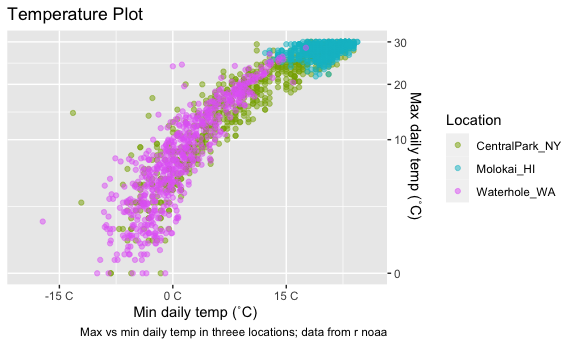
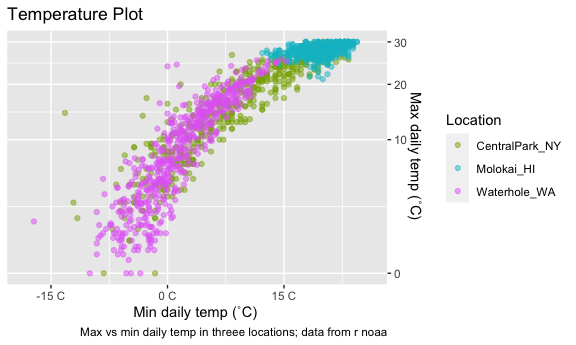
end of class

diff --git a/viz_part2.md b/viz_part2.md
@@ -18,6 +18,7 @@ library(tidyverse)
 
 ``` r
 library(ggridges)
+library(patchwork)
 ```
 
 ``` r
@@ -35,8 +36,8 @@ weather_df =
   rnoaa::meteo_pull_monitors( # pulling 3 monitors
     c("USW00094728", "USW00022534", "USS0023B17S"),
     var = c("PRCP", "TMIN", "TMAX"), 
-    date_min = "2021-01-01",
-    date_max = "2022-12-31") |>
+    date_min = "2022-01-01",
+    date_max = "2023-12-31") |>
   mutate(
     name = recode(
       id, 
@@ -65,6 +66,8 @@ weather_df =
     ## date created (size, mb): 2023-10-05 10:33:39.177801 (0.997)
 
     ## file min/max dates: 1999-09-01 / 2023-10-31
+
+This results in a dataframe with 2007 observations on 6 variables.
 
 labs
 
@@ -95,7 +98,7 @@ weather_df |>
 
     ## Warning: Transformation introduced infinite values in continuous y-axis
 
-    ## Warning: Removed 302 rows containing missing values (`geom_point()`).
+    ## Warning: Removed 402 rows containing missing values (`geom_point()`).
 
 <img src="viz_part2_files/figure-gfm/unnamed-chunk-4-1.png" width="90%" />
 
@@ -113,14 +116,196 @@ ggp_temp_plot =
     color = "Location",
     caption = "Data from the rnoaa package"
   ) + 
-  viridis::scale_color_viridis(
-    name = "Location", 
-    discrete = TRUE
-  )
+  viridis::scale_color_viridis(name = "Location", discrete = TRUE)
 
 ggp_temp_plot
 ```
 
-    ## Warning: Removed 17 rows containing missing values (`geom_point()`).
+    ## Warning: Removed 105 rows containing missing values (`geom_point()`).
 
 <img src="viz_part2_files/figure-gfm/unnamed-chunk-5-1.png" width="90%" />
+
+## Themes
+
+``` r
+ggp_temp_plot = 
+  weather_df |> 
+  ggplot(aes(x = tmin, y = tmax)) + 
+  geom_point(aes(color = name), alpha = .5) + 
+  labs(
+    title = "Temperature plot",
+    x = "Minimum daily temperature (C)",
+    y = "Maxiumum daily temperature (C)",
+    color = "Location",
+    caption = "Data from the rnoaa package"
+  ) + 
+  viridis::scale_color_viridis(name = "Location", discrete = TRUE) + 
+  theme(legend.position = "bottom")
+
+
+
+ggp_temp_plot
+```
+
+    ## Warning: Removed 105 rows containing missing values (`geom_point()`).
+
+<img src="viz_part2_files/figure-gfm/unnamed-chunk-6-1.png" width="90%" />
+
+## data argument
+
+``` r
+weather_df |> 
+  ggplot(aes(x = date, y = tmax)) +
+  geom_point(aes(color = name), alpha = .5) + 
+  geom_smooth()
+```
+
+    ## `geom_smooth()` using method = 'gam' and formula = 'y ~ s(x, bs = "cs")'
+
+    ## Warning: Removed 105 rows containing non-finite values (`stat_smooth()`).
+
+    ## Warning: Removed 105 rows containing missing values (`geom_point()`).
+
+<img src="viz_part2_files/figure-gfm/unnamed-chunk-7-1.png" width="90%" />
+
+``` r
+central_park_df = 
+  weather_df |> 
+  filter(name == "CentralPark_NY")
+
+molokai_df = 
+  weather_df |> 
+  filter(name == "Molokai_HI")
+
+ggplot(data = molokai_df, aes(x = date, y = tmax, color = name)) + 
+  geom_point() + 
+  geom_line(data = central_park_df) 
+```
+
+    ## Warning: Removed 31 rows containing missing values (`geom_point()`).
+
+    ## Warning: Removed 30 rows containing missing values (`geom_line()`).
+
+<img src="viz_part2_files/figure-gfm/unnamed-chunk-7-2.png" width="90%" />
+
+## ‘patchwork’
+
+``` r
+ggp_temp = 
+weather_df |> 
+  ggplot(aes(x = tmin, y = tmax, color = name)) + 
+  geom_point(alpha = .5) +
+  theme(legend.position = "none")
+
+ggp_prcp = 
+weather_df |> 
+  filter(prcp > 25) |> 
+  ggplot(aes(x = prcp, fill = name)) + 
+  geom_density(alpha = .5) + 
+  theme(legend.position = "none")
+
+tmax_date_p = 
+  weather_df |> 
+  ggplot(aes(x = date, y = tmax, color = name)) + 
+  geom_point(alpha = .5) +
+  geom_smooth(se = FALSE) + 
+  theme(legend.position = "bottom")
+
+(ggp_temp + ggp_prcp) / tmax_date_p # displays both graphs next to each other
+```
+
+    ## Warning: Removed 105 rows containing missing values (`geom_point()`).
+
+    ## `geom_smooth()` using method = 'loess' and formula = 'y ~ x'
+
+    ## Warning: Removed 105 rows containing non-finite values (`stat_smooth()`).
+    ## Removed 105 rows containing missing values (`geom_point()`).
+
+<img src="viz_part2_files/figure-gfm/unnamed-chunk-8-1.png" width="90%" />
+
+## data manipulation
+
+``` r
+weather_df |> 
+  mutate(
+    name = fct_relevel(name, c("Molokai_HI", "CentralPark_NY", "Waterhole_WA")) # put in order of name
+  ) |> 
+  ggplot(aes(x = name, y = tmax)) + 
+  geom_boxplot()
+```
+
+    ## Warning: Removed 105 rows containing non-finite values (`stat_boxplot()`).
+
+<img src="viz_part2_files/figure-gfm/unnamed-chunk-9-1.png" width="90%" />
+
+``` r
+weather_df |>
+  mutate(
+    name = fct_reorder(name, tmax) # put in order by increasing tmax
+    ) |> 
+  ggplot(aes(x = name, y = tmax)) + 
+  geom_violin(aes(fill = name), color = "blue", alpha = .5)
+```
+
+    ## Warning: There was 1 warning in `mutate()`.
+    ## ℹ In argument: `name = fct_reorder(name, tmax)`.
+    ## Caused by warning:
+    ## ! `fct_reorder()` removing 105 missing values.
+    ## ℹ Use `.na_rm = TRUE` to silence this message.
+    ## ℹ Use `.na_rm = FALSE` to preserve NAs.
+
+    ## Warning: Removed 105 rows containing non-finite values (`stat_ydensity()`).
+
+<img src="viz_part2_files/figure-gfm/unnamed-chunk-10-1.png" width="90%" />
+
+## complicated FAS plot
+
+``` r
+litter_df = 
+  read_csv("./data/FAS_litters.csv") |>
+  janitor::clean_names() |>
+  separate(group, into = c("dose", "day_of_tx"), sep = 3) # separate 3 characters in
+```
+
+    ## Rows: 49 Columns: 8
+    ## ── Column specification ────────────────────────────────────────────────────────
+    ## Delimiter: ","
+    ## chr (2): Group, Litter Number
+    ## dbl (6): GD0 weight, GD18 weight, GD of Birth, Pups born alive, Pups dead @ ...
+    ## 
+    ## ℹ Use `spec()` to retrieve the full column specification for this data.
+    ## ℹ Specify the column types or set `show_col_types = FALSE` to quiet this message.
+
+``` r
+pup_df = 
+  read_csv("./data/FAS_pups.csv") |>
+  janitor::clean_names()
+```
+
+    ## Rows: 313 Columns: 6
+    ## ── Column specification ────────────────────────────────────────────────────────
+    ## Delimiter: ","
+    ## chr (1): Litter Number
+    ## dbl (5): Sex, PD ears, PD eyes, PD pivot, PD walk
+    ## 
+    ## ℹ Use `spec()` to retrieve the full column specification for this data.
+    ## ℹ Specify the column types or set `show_col_types = FALSE` to quiet this message.
+
+``` r
+fas_data = 
+  left_join(pup_df, litter_df, by = "litter_number") 
+
+fas_data |> 
+  select(dose, day_of_tx, pd_ears:pd_walk) |> 
+  pivot_longer(
+    pd_ears:pd_walk,
+    names_to = "outcome", 
+    values_to = "pn_day") |> 
+  drop_na() |> 
+  mutate(outcome = fct_reorder(outcome, pn_day, median)) |> 
+  ggplot(aes(x = dose, y = pn_day)) + 
+  geom_violin() + 
+  facet_grid(day_of_tx ~ outcome)
+```
+
+<img src="viz_part2_files/figure-gfm/unnamed-chunk-11-1.png" width="90%" />
